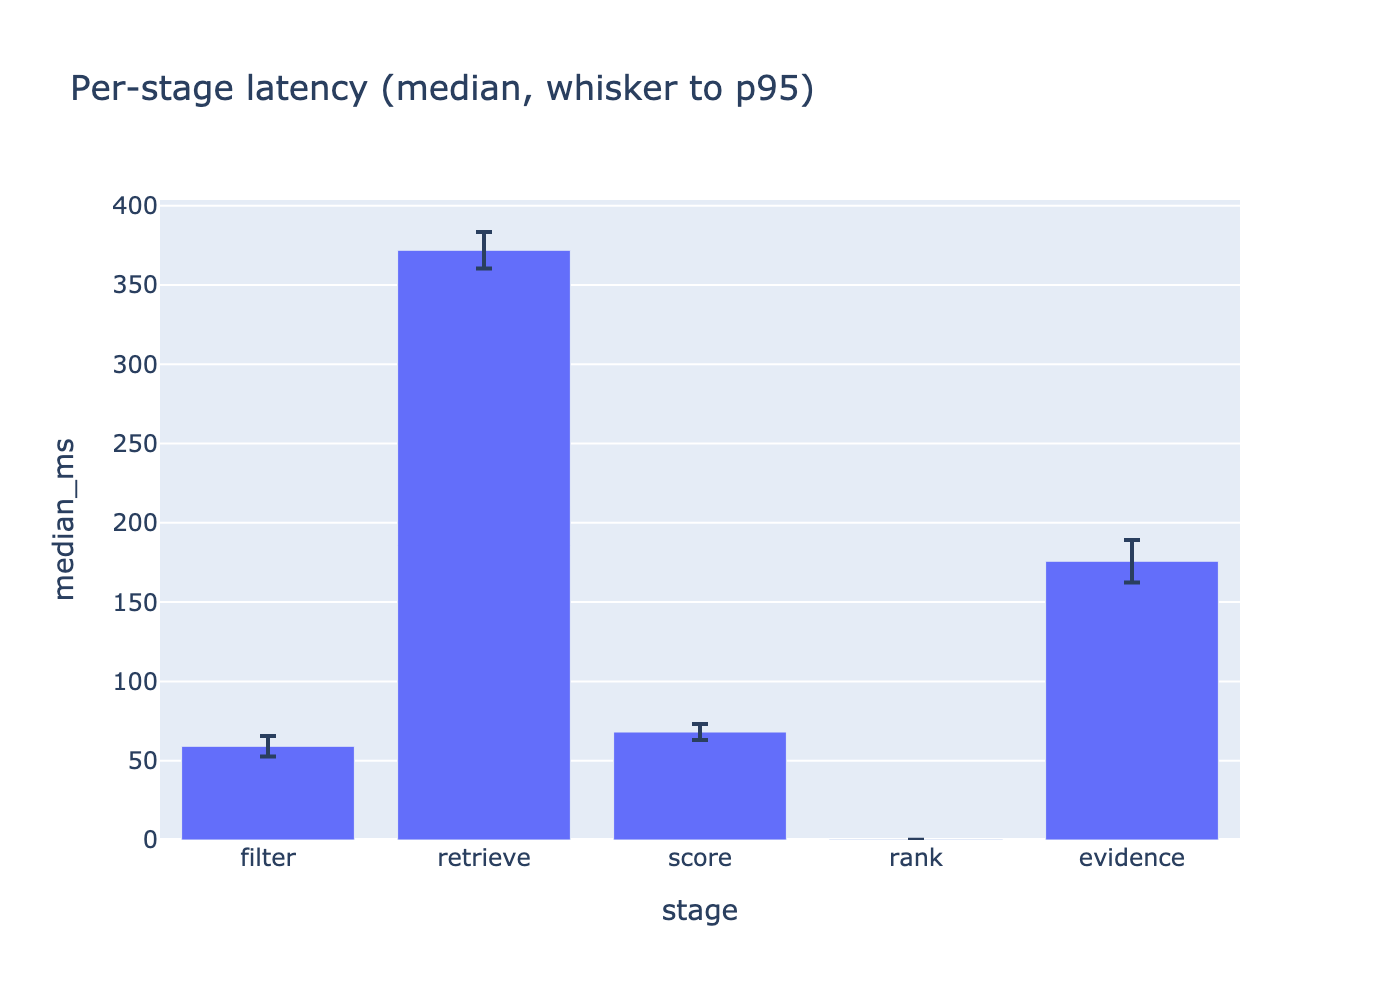
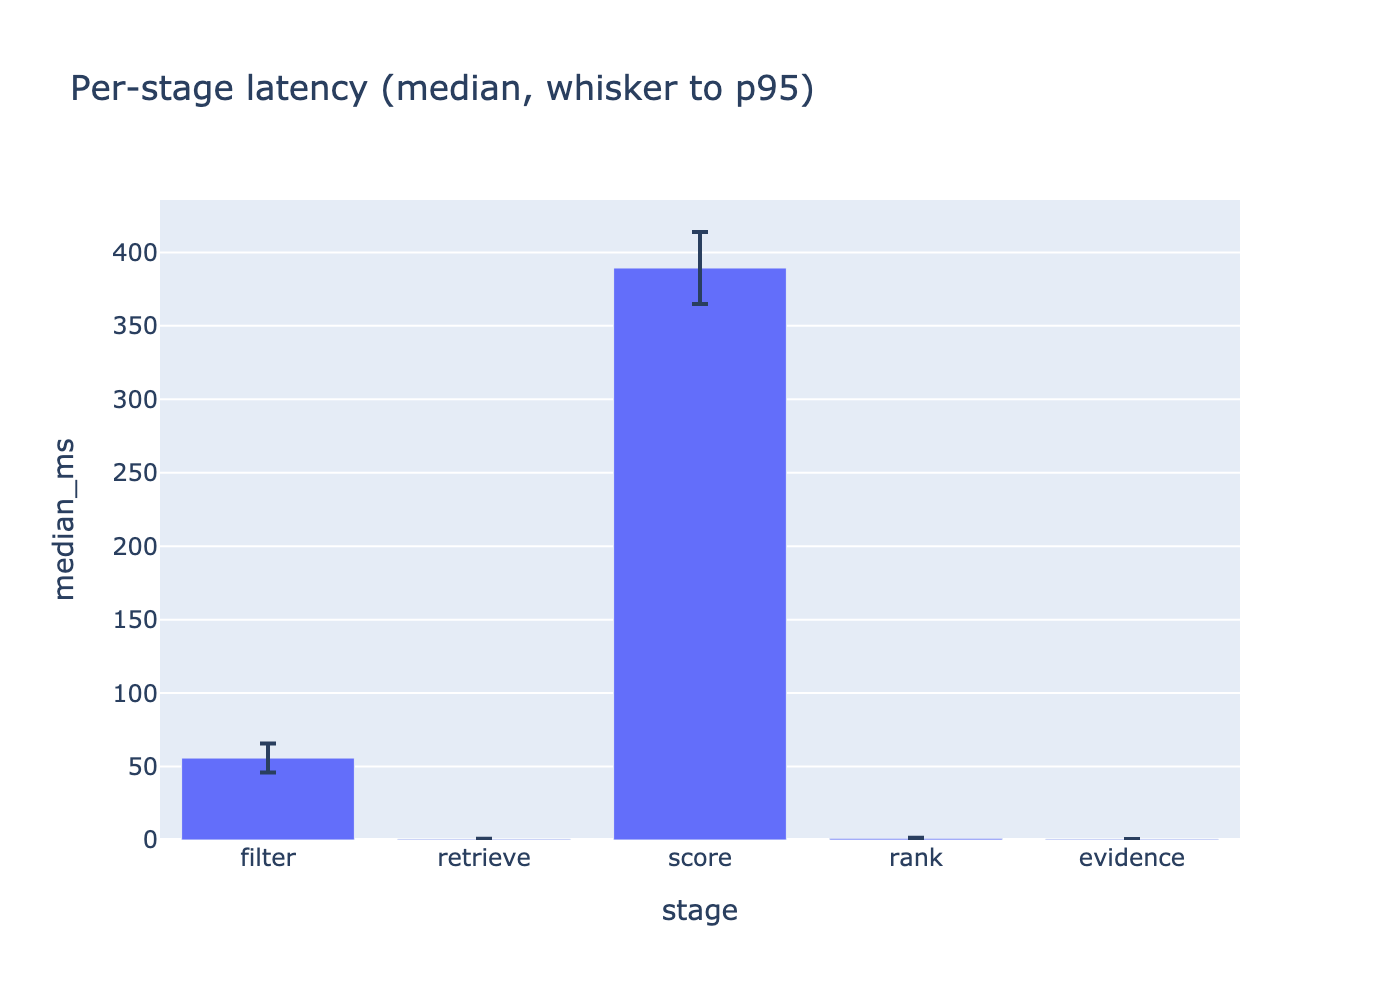
Methodology review: sharpen evaluation, add D13 exact scoring
Reviewed the plan against measured evidence. Three evaluation changes, one design
change, and one deliberate refusal to change.

1. AC-13.1 (REQ-13 -> v1.1): the title-family relevance proxy returned
   precision@10 = 1.00 for both BM25 and hybrid on all three profiles - it could
   not separate the methods, which is a limitation of the metric rather than
   evidence about the methods. Replaced with recall of the top-scoring set: score
   every survivor, take the true top-20 by final score, measure recall@k. No
   human labels, not circular. It discriminates immediately - hybrid leads or
   ties nearly everywhere, dense beats BM25 for the data profile (0.90 vs 0.45 at
   k=200), BM25 is competitive for security. No single retriever wins everywhere.

2. AC-13.6 (REQ-13 -> v1.1): component sensitivity now runs across every profile.
   Q7's "16% inert" rested on one profile whose results are mostly remote, making
   location constant for it rather than inert in general. Refined: preferred
   skills is genuinely inert (0/3 profiles), location affects 1/3, and education
   at 4% replaces 1.33 jobs across 3/3 - Q6 confirmed with stronger evidence.

3. AC-9.10: evidence similarity now uses the job's stored index vector instead of
   re-embedding its text. Removes ~178ms and, more importantly, makes the
   evidence shown and the evidence scored one measurement rather than two that
   could disagree.
[…]

diff --git a/src/evaluation.py b/src/evaluation.py
@@ -77,6 +77,75 @@ def precision_at_k(pool: pd.DataFrame, k: int = 10, label: str = "relevant_proxy
     return out
 
 
+def recall_of_top_scored(jobs, index, profile, kb, ks=(10, 25, 50, 100, 200),
+                        n_relevant: int = 20) -> pd.DataFrame:
+    """
+    AC-13.1 (v1.1): does retrieval surface the jobs that scoring would rank highest?
+
+    Score **every** filter survivor, take the true top-`n_relevant` by final match
+    score, then report each retrieval mode's recall@k against that set.
+
+    Not circular: retrieval ranks by BM25 and embedding similarity, scoring ranks
+    by eight weighted components including skills, experience, education and
+    location. The question is whether the cheap approximate stage keeps what the
+    expensive exact stage wants - which is the only thing the retrieval stage is
+    for.
+
+    Replaces a title-family relevance proxy that returned precision@10 = 1.00 for
+    both BM25 and hybrid on every profile, and so could not separate them.
+    """
+    from src.filters import apply_filters
+    from src.pipeline import search
+    from src.retrieval import retrieve
+
+    kept, _ = apply_filters(jobs, profile)
+    if kept.empty:
+        return pd.DataFrame()
+
+    # Exhaustive scoring of the survivors defines the ground truth.
+    full = search(jobs, index, profile, kb, top_n=n_relevant, retrieve_k=len(kept))
+    truth = {r["job_id"] for r in full.results}
+
+    position_of = {jid: i for i, jid in enumerate(jobs["job_id"])}
+    candidates = [position_of[j] for j in kept["job_id"]]
+
+    rows = []
+    for mode in ("bm25", "dense", "hybrid"):
+        ranked = retrieve(index, profile, candidate_positions=candidates,
+                          mode=mode, k=max(ks))
+        ids = [jobs.iloc[p]["job_id"] for p, _ in ranked]
+        for k in ks:
+            found = len(truth & set(ids[:k]))
+            rows.append({"mode": mode, "k": k,
+                         "recall": round(found / len(truth), 3) if truth else 0.0,
+                         "found": found, "of": len(truth)})
+    return pd.DataFrame(rows)
+
+
+def sensitivity_all_profiles(jobs, index, presets, kbs) -> pd.DataFrame:
+    """
+    AC-13.6 (v1.1): component sensitivity across every reference profile.
+
+    A single profile's result is not a property of the weight. The data-science
+    profile's top results are mostly remote, so location is constant *for it* -
+    a profile that rejects remote would see the same component discriminate.
+    """
+    frames = []
+    for key, profile in presets.items():
+        frame = component_sensitivity(jobs, index, profile, kbs[key])
+        frame.insert(0, "profile", profile.name)
+        frames.append(frame)
+    combined = pd.concat(frames, ignore_index=True)
+    combined["jobs_replaced"] = 5 - combined["top5_overlap"]
+    summary = (combined.groupby("component")
+               .agg(weight=("weight", "first"),
+                    mean_jobs_replaced=("jobs_replaced", "mean"),
+                    profiles_affected=("order_changed", "sum"),
+                    n_profiles=("order_changed", "size"))
+               .reset_index().sort_values("mean_jobs_replaced", ascending=False))
+    return combined, summary
+
+
 def latency_profile(jobs, index, profile, kb, runs: int = 20) -> pd.DataFrame:
     """AC-13.3: per-stage median and p95 over repeated searches."""
     from src.pipeline import search

diff --git a/src/pipeline.py b/src/pipeline.py
@@ -25,9 +25,18 @@ from src.profiles import UserProfile
 from src.retrieval import retrieve
 from src.scoring import score_job
 
-#: Candidates that receive full scoring. Retrieval is cheap and approximate;
-#: scoring is exact and explainable, so the shortlist only needs to be generous.
+#: Candidates that receive full scoring when retrieval is used.
 RETRIEVE_K = 200
+
+#: D13 - below this many filter survivors, skip retrieval and score all of them.
+#: Measured: scoring every survivor costs ~220 ms more than retrieving 200 and
+#: produced an identical top-5 for all three reference profiles, while retrieval
+#: at k=200 recovered only 45-95% of the true top-20 by score (AC-13.1). Exact is
+#: available for the price of a fifth of a second, so approximation is not worth
+#: its recall loss at this corpus size. Retrieval remains for scalability - the
+#: same argument as D9 choosing DuckDB over Spark: use the approximate machinery
+#: when the data demands it, and measure rather than assume that it does.
+SCORE_ALL_THRESHOLD = 2500
 TOP_N = 5
 
 
@@ -62,7 +71,13 @@ def search(
 
     t = time.perf_counter()
     candidates = [position_of[j] for j in kept["job_id"]]
-    hits = retrieve(index, profile, candidate_positions=candidates, mode=mode, k=retrieve_k)
+    if len(candidates) <= SCORE_ALL_THRESHOLD and mode == "hybrid":
+        # D13: exact - every eligible job is scored, no candidate is discarded.
+        hits = [(p, 0.0) for p in candidates]
+        funnel["retrieval"] = "skipped (scored every survivor)"
+    else:
+        hits = retrieve(index, profile, candidate_positions=candidates, mode=mode, k=retrieve_k)
+        funnel["retrieval"] = f"{mode} top-{retrieve_k}"
     timings["retrieve"] = (time.perf_counter() - t) * 1000
 
     # Semantic sub-scores, calibrated against the fixed background (AC-9.11).
@@ -111,15 +126,18 @@ def search(
     # from the source by character span - never generated.
     t = time.perf_counter()
     for result in top:
-        row = jobs.iloc[position_of[result["job_id"]]]
+        position = position_of[result["job_id"]]
+        row = jobs.iloc[position]
         result["job"] = row
         result["evidence"] = []
         if kb is not None and len(kb.chunks):
-            job_text = f"{row['title']}. {row['description'] or ''}"
+            # AC-9.10: the job's stored index vector, not a re-embedded copy of
+            # its text - so shown evidence and scored evidence are one measurement.
             result["evidence"] = [
                 {"text": chunk.text, "section": chunk.section,
                  "char_span": chunk.char_span, "similarity": round(sim, 3)}
-                for chunk, sim in kb.retrieve(job_text, k=2)
+                for chunk, sim in kb.retrieve_by_vector(
+                    index.embeddings[position], k=2, evidence_only=True)
             ]
     timings["evidence"] = (time.perf_counter() - t) * 1000
 

diff --git a/src/personal_kb.py b/src/personal_kb.py
@@ -144,6 +144,27 @@ class PersonalKB:
         """
         return np.array([c.section != "career_goals" for c in self.chunks])
 
+    def retrieve_by_vector(self, job_vector: np.ndarray, k: int = 3,
+                           evidence_only: bool = False) -> list[tuple[Chunk, float]]:
+        """
+        Evidence for a job whose vector is already known (AC-9.10).
+
+        Preferred over :meth:`retrieve` in the pipeline: the job's index vector
+        already exists, so re-embedding its text is both wasted work and a second
+        measurement that could in principle disagree with the one that produced
+        the score. Passing the stored vector makes the displayed evidence and the
+        scored evidence provably the same computation.
+        """
+        if not self.chunks:
+            return []
+        mask = self.evidence_mask if evidence_only else np.ones(len(self.chunks), bool)
+        if not mask.any():
+            return []
+        idx = np.flatnonzero(mask)
+        scores = self.embeddings[idx] @ job_vector
+        order = np.argsort(-scores)[: min(k, len(idx))]
+        return [(self.chunks[idx[i]], float(scores[i])) for i in order]
+
     def retrieve(self, job_text: str, k: int = 3) -> list[tuple[Chunk, float]]:
         """
         AC-4.4: the ``min(k, n_chunks)`` most similar chunks, descending, each

diff --git a/tests/test_pipeline.py b/tests/test_pipeline.py
@@ -117,3 +117,32 @@ def test_retrieval_mode_is_selectable(index, profile, kb):
     """AC-7.3: REQ-13 compares modes through this same entry point."""
     for mode in ("bm25", "dense", "hybrid"):
         assert search(JOBS, index, profile, kb, mode=mode).results
+
+
+def test_d13_small_survivor_set_skips_retrieval(index, profile, kb):
+    """
+    D13: below the threshold every eligible job is scored exactly, so no
+    top-scoring job can be discarded by an approximate stage.
+    """
+    from src.pipeline import search
+
+    out = search(JOBS, index, profile, kb)
+    assert out.funnel["retrieval"].startswith("skipped")
+
+
+def test_d13_explicit_mode_still_uses_retrieval(index, profile, kb):
+    """AC-7.3: REQ-13 must still be able to exercise each retriever."""
+    from src.pipeline import search
+
+    out = search(JOBS, index, profile, kb, mode="bm25")
+    assert out.funnel["retrieval"].startswith("bm25")
+
+
+def test_d13_exact_path_cannot_lose_a_scored_job(index, profile, kb):
+    """Every job that passes the filters is scored when the set is small."""
+    from src.filters import apply_filters
+    from src.pipeline import search
+
+    kept, _ = apply_filters(JOBS, profile)
+    out = search(JOBS, index, profile, kb, top_n=99)
+    assert len(out.results) == len(kept)

diff --git a/tests/test_req4_personal_kb.py b/tests/test_req4_personal_kb.py
@@ -132,3 +132,25 @@ def test_ac_4_6_structured_and_unstructured_are_separate(kb):
 def test_ac_4_6_empty_input_is_handled():
     kb = PersonalKB.build(resume_text="", career_goals="Looking for data work.")
     assert len(kb.chunks) == 1 and kb.retrieve("anything", 3)
+
+
+def test_retrieve_by_vector_matches_retrieve(kb):
+    """
+    AC-9.10: passing the stored index vector must give the same ranking as
+    embedding the text — that equivalence is what makes the substitution safe.
+    """
+    text = "Build ETL pipelines in Airflow and Snowflake"
+    from src.personal_kb import embed
+
+    by_text = [c.text for c, _ in kb.retrieve(text, k=3)]
+    by_vector = [c.text for c, _ in kb.retrieve_by_vector(embed([text])[0], k=3)]
+    assert by_text == by_vector
+
+
+def test_retrieve_by_vector_can_exclude_goals(kb):
+    """AC-9.10: displayed evidence excludes the career-goals chunk, as the score does."""
+    from src.personal_kb import embed
+
+    vec = embed(["data pipelines"])[0]
+    sections = {c.section for c, _ in kb.retrieve_by_vector(vec, k=99, evidence_only=True)}
+    assert "career_goals" not in sections

diff --git a/docs/project-plan.md b/docs/project-plan.md
@@ -51,6 +51,7 @@ reverse the draft plan or the Stage 1 human design, and the report (Section 4) m
 | D9 | **DuckDB (SQL) for offline ingestion and analytics; pandas for the query-time path** | The corpus is ~124k rows / ~800MB — it fits single-machine, so Spark's JVM startup and shuffle overhead exceed its benefit. DuckDB is columnar, vectorized, out-of-core, and pip-installable with no JVM. REQ-1's join/filter/dedupe and REQ-12's aggregations are naturally SQL. The crossover point where distributed execution would win is documented instead of assumed | PySpark (real setup cost, no gain at this scale); pandas alone (786k-row scale test gets memory-tight, manual chunking) |
 | D10 | **No cross-encoder. Removed entirely (REQ-8 → Non-Goals)** | Accepted from the AI at Stage 2, removed at Stage 3 once filter-first (D2) made it redundant. The assignment never asks for reranking — report §6 and §9 name BM25, embeddings and hybrid retrieval only. In this architecture it would trim 200 candidates to 50 before scoring, but scoring 200 costs milliseconds, and jobs that survive retrieval without merit simply score low and never reach the top 5. It saves no meaningful compute and duplicates work the scorer already does. It also carries an opacity cost either way: as a score component it would put an unjustifiable term inside the breakdown, and as a pruner it can silently drop a good job with no signal to the user — pruning relocates that opacity rather than removing it | Cross-encoder as a weighted score component (unexplainable term in the score); cross-encoder as a pruner (retained the opacity, earned too little to justify it) |
 | D11 | **No LLM in the application. Evidence is retrieved, not generated** | Every number and every quote the user sees is produced by deterministic code: scores from REQ-9, supporting résumé text from REQ-4's semantic retrieval with verifiable character spans. The co-design prep's "Practice with Agentic AI" section was a prompt-engineering exercise — practice at directing an AI — not a component of the product, and building it in would have added an API key, a cost, and a reproducibility barrier (a grader cannot run it) for something the assignment never required. Report §6 asks about an LLM's role only *if* one is used | A hosted LLM explanation layer (removed, see REQ-10); LLM-computed scores (drift between runs, untestable) |
+| D13 | **Retrieval is skipped when the filter survivors fit; every eligible job is scored exactly** | Measured (AC-13.1 v1.1): retrieving top-200 recovered only **45-95%** of the true top-20 by score, so the approximate stage was discarding jobs the exact stage wanted. Scoring every survivor instead costs ~220 ms more (877 ms vs 656 ms for the largest profile) and produced an **identical top-5** for all three reference profiles. Exactness is available for a fifth of a second, so the approximation is not worth its recall loss at this corpus size. Retrieval is retained above `SCORE_ALL_THRESHOLD` and remains the scalability path — the same reasoning as D9: use the heavier machinery when the data demands it, and *measure* rather than assume that it does | Always retrieving top-200 (loses top-scoring jobs); removing retrieval entirely (would leave no path at larger scale, and forfeit the report §9 comparison) |
 | D12 | **Industry is dropped from the score** | Scope, not data quality. Stage 1 gave it only 0.10 of the manual score, and the deadline does not allow a component that small to earn its implementation and test cost. **Correction (2026-09-08):** this decision was originally justified as "industry labels are inconsistent across sources" — the schema audit refuted that. `job_industries.csv` is 0% null on both columns and `mappings/industries.csv` carries 422 clean industry names. The data is good; the reason for dropping it is priority. Recorded as an explicit rejection, not an omission, and a strong candidate for report §12 future work | Keeping the Stage 1 industry component |
 
 ### 0.4 Architecture
@@ -84,7 +85,8 @@ reverse the draft plan or the Stage 1 human design, and the report (Section 4) m
   (1) HARD FILTERS   location · salary · work setting · employment type · skill floor   [D2]
          │                                                              ~30k → ~N
          ▼
-  (2) RETRIEVAL      BM25 + dense over survivors, fused with RRF → top 200
+  (2) RETRIEVAL      survivors ≤ 2,500 → skipped, all are scored exactly   [D13]
+                     otherwise → BM25 + dense over survivors, RRF → top 200
          │
          ▼
   (3) SCORE          8-component weighted score, calibrated semantics  [D8]
@@ -717,7 +719,10 @@ semantic split is carried over from the Stage 2 co-design prep unchanged, so the
 - **AC-9.9** — **Career goals ~ description** = calibrated cosine between the career-goals embedding
   and the job embedding.
 - **AC-9.10** — **Résumé evidence ~ description** = calibrated maximum cosine over the retrieved
-  personal chunks for that job, **excluding the career-goals chunk**, which has its own component
+  personal chunks for that job, computed against the job's **stored index vector** rather than a
+  freshly embedded copy of its text, so the evidence displayed to the user (AC-11.5) and the
+  evidence that produced this sub-score are provably the same measurement and cannot diverge —
+  **excluding the career-goals chunk**, which has its own component
   (AC-9.9). Without that exclusion the two semantic components returned identical values on most
   results — the goals chunk simply won the max — so 30% of the weight was one signal counted twice,
   exactly what AC-9.12 forbids. A profile with no résumé content beyond its goals statement yields
@@ -841,7 +846,7 @@ This is analysis *of the dataset*, distinct from the *result-level* charts in RE
 
 ## REQ-13: Evaluation notebook
 
-**Status:** FROZEN v1.0 (2026-09-09)
+**Status:** FROZEN v1.1 (2026-09-09)
 **Traces to:** report §9 (Results and Evaluation), §10 (comparison)
 **Location:** `notebooks/evaluation.ipynb`
 
@@ -854,11 +859,19 @@ compliance*.
 - **AC-13.1** — **Retrieval comparison** over the configurations built — BM25 only, dense only,
   hybrid RRF — reporting precision@10 on the
   **unfiltered** corpus, which is the honest way to compare retrieval methods.
-  **Judgments are pooled, not pre-labeled:** run every configuration for one profile, take the union
-  of their top-10s (typically 15-25 distinct jobs after overlap), and judge each job once as
-  relevant/not. Every configuration is then scored against that shared pool. This is both less
-  manual work than labeling a fixed set in advance and methodologically sounder — it cannot
-  under-credit a configuration for surfacing a good job nobody thought to label.
+  **Primary metric — recall of the top-scoring set (v1.1, 2026-09-09).** Score *every* filter
+  survivor, take the true top-20 by final match score, and report each retrieval method's
+  `recall@k` against that set: *does retrieval surface the jobs that scoring would rank highest?*
+  This needs no human labels, is not circular (retrieval and scoring use different signals — BM25
+  and embeddings versus eight weighted components), and answers the question the comparison exists
+  for: whether hybrid retrieval earns its cost.
+  **Secondary — pooled judgment.** Run every configuration, take the union of their top-10s, judge
+  each job once, score all configurations against that shared pool. Pooling cannot under-credit a
+  configuration for surfacing a good job nobody thought to pre-label.
+  *Why the change:* the original title-family relevance proxy returned precision@10 of 1.00 for both
+  BM25 and hybrid across all three profiles — a metric that scores nearly everything relevant cannot
+  separate the methods. That was a limitation of the proxy, not evidence the methods are equivalent.
+  The proxy is retained as a cross-check and the pools are still exported for manual labelling.
 - **AC-13.2** — **End-to-end evaluation** with filters enabled, reporting the top 5 for each of the
   three preset profiles from AC-3.7.
 - **AC-13.3** — **Latency**, measured per stage (filter, retrieve, score, evidence) as median and
@@ -872,8 +885,12 @@ compliance*.
   asserted tool choice.
 - **AC-13.5** — **Calibration evidence**: raw-cosine and calibrated-score histograms side by side,
   demonstrating the correction of the Stage 2 magic-multiplier failure mode.
-- **AC-13.6** — **Component sensitivity**: each score component is zeroed in turn and the change in the
-  top 5 is reported, identifying components that cannot discriminate. Includes the correlation between
+- **AC-13.6** — **Component sensitivity**: each score component is zeroed in turn and the change in
+  the top 5 is reported, identifying components that cannot discriminate. **Run across every
+  reference profile, not one (v1.1, 2026-09-09):** a single profile's result is not a property of
+  the weight. The data-science profile's top results are mostly remote, so location is constant
+  *for it* — a profile that rejects remote would see the same component discriminate. A conclusion
+  about a weight requires agreement across profiles. Includes the correlation between
   the two semantic components; if r > 0.8 they are double-counting one signal and REQ-9 is revised
   through the spec-change protocol.
 - **AC-13.8** — Every table and figure the report cites from this notebook is exported to
@@ -948,6 +965,10 @@ Explicitly out of scope for v1.0. The report's limitations section cites this li
 
 | Date | REQ/AC changed | What changed | Why |
 |---|---|---|---|
+| 2026-09-09 | D13 (new), pipeline | Retrieval skipped when filter survivors ≤ 2,500; every eligible job scored exactly | AC-13.1 v1.1's recall metric showed retrieval at k=200 recovering only 45-95% of the true top-20 by score — the approximate stage was discarding what the exact stage wanted. Scoring all survivors costs ~220 ms more and gave an identical top-5 on all three profiles. Retrieval retained above the threshold as the scalability path |
+| 2026-09-09 | AC-13.1 (REQ-13 → v1.1) | Primary retrieval metric changed from precision@10 against a title-family proxy to **recall of the top-scoring set**; proxy and pooled judgment retained as secondary | The proxy returned precision@10 = 1.00 for both BM25 and hybrid on all three profiles — it could not separate the methods, which is a limitation of the metric rather than evidence about the methods. Recall-of-top-scored needs no human labels, is not circular (retrieval and scoring use different signals), and answers whether hybrid earns its cost |
+| 2026-09-09 | AC-13.6 (REQ-13 → v1.1) | Component sensitivity must run across every reference profile, not one | Q7's "16% of the weight is inert" rested on a single profile whose top results are mostly remote — making location constant *for that profile* rather than inert in general. A conclusion about a weight needs agreement across profiles |
+| 2026-09-09 | AC-9.10 | Evidence similarity computed against the job's stored index vector rather than a re-embedded copy of its text | Guarantees the evidence shown to the user and the evidence that produced the sub-score are the same measurement; also removes a redundant embedding pass (~178 ms of a 669 ms search) |
 | 2026-09-09 | AC-9.10, AC-9.12 | Résumé-evidence similarity now excludes the career-goals chunk | With it included the two semantic components returned identical values on most results — the goals chunk won the max — so 30% of the weight was one signal counted twice. This is the concrete answer to Q2, found by printing both sub-scores side by side on a real search |
 | 2026-09-09 | AC-5.5 (per-profile anchors) | Calibration anchors computed per profile at query time rather than pooled across reference profiles at build time | Pooled anchors failed on measurement: résumé length and vocabulary shift the similarity scale, so anchors that discriminated for the data-science profile mapped the security analyst's entire top-5 to 0.0. Per-profile anchors depend only on profile and corpus, so D8's pool-independence is preserved |
 | 2026-09-09 | AC-5.5, AC-5.7 (REQ-5 → v1.1), AC-9.11a (new) | Calibration background changed from 2,000 random corpus jobs to each reference profile's top-`RETRIEVE_K` retrieved candidates. Added AC-9.11a requiring calibrated sub-scores to discriminate within a real top-5 | Measured end to end: the random-corpus anchors were p5=0.153 / p95=0.500, but the top-200 retrieved candidates had p5=0.501 — so ~95% of everything scored clipped to 1.0 and the two semantic components (30% of the weight) contributed nothing to the ranking. Calibration was measured on the wrong population; the constants stay fixed at build time so D8's pool-independence is unaffected |
